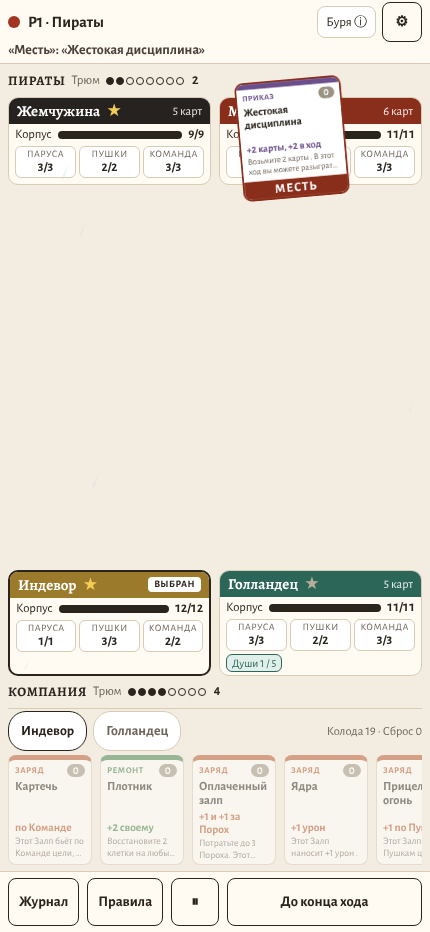
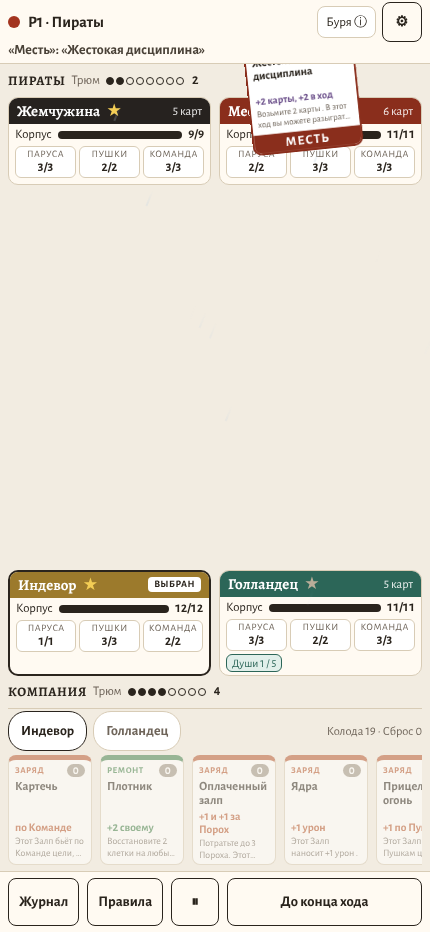
E2E: U3 at 430 — the buttons of all planks of one size, two in sight; screenshots, PROGRESS.md
Claude-Session: https://claude.ai/code/session_01WJErPw4935JGRtmumQ5kGj

Changed region(s): [[0.5442, 0.0622, 0.8465, 0.2178]]

diff --git a/e2e/u3-layout.spec.ts b/e2e/u3-layout.spec.ts
@@ -153,6 +153,20 @@ for (const size of SIZES) {
           }),
         }));
         expect(new Set(rows.tops).size, 'the buttons of «Голландец» in one row').toBe(1);
+        // every button of every plank of one size (two in sight), its text whole
+        const btns = await page.evaluate(() =>
+          Array.from(document.querySelectorAll<HTMLElement>('.planks .plank-buttons .btn')).map((b) => ({ w: b.getBoundingClientRect().width, h: b.getBoundingClientRect().height, whole: b.scrollWidth <= b.clientWidth + 1 })),
+        );
+        expect(btns.length).toBeGreaterThanOrEqual(6);
+        expect(spread(btns.map((b) => b.w)), 'the buttons of one width').toBeLessThanOrEqual(1);
+        expect(spread(btns.map((b) => b.h)), 'the buttons of one height').toBeLessThanOrEqual(1);
+        expect(btns.every((b) => b.whole), 'no text cut').toBe(true);
+        const sight = await page.evaluate(() => {
+          const row = document.querySelector<HTMLElement>('[data-testid="plank-Г"] .plank-buttons')!;
+          const r = row.getBoundingClientRect();
+          return Array.from(row.querySelectorAll('.btn')).filter((b) => { const x = b.getBoundingClientRect(); return x.left >= r.left - 1 && x.right <= r.right + 1; }).length;
+        });
+        expect(sight, 'two buttons of «Голландец» in sight').toBe(2);
         expect(rows.planks.length).toBe(2);
         expect(spread(rows.planks.map((p) => p.h)), 'the planks of a row of one height').toBeLessThanOrEqual(1);
         const rowBottoms = rows.planks.map((p) => p.rowBottom).filter((b): b is number => b !== null);

diff --git a/docs/PROGRESS.md b/docs/PROGRESS.md
@@ -30,8 +30,8 @@
 - **Шаг 5. Шкалы и бейджи (≥ 701 px):** шкалы — компактный блок (subgrid): клетки четырёх шкал в одной колонке, числа одной колонкой сразу за самой длинной шкалой, цифры моноширинные (`tabular-nums`); на 1920 число больше не стоит у правого края. Тело планшета — три колонки: шкалы, свободное поле (печать «Чёрной метки»), бейджи (10,5 rem). Бейджи — ширина по тексту, одна высота (шаг строк шкал), все у одного правого края (правка пользователя перед слиянием: не растягивать); длиннее колонки — «…», полное имя Легенды в `title` (у сыгранной тоже) и по нажатию. Строки шкал больше не растягиваются под колонку бейджей. Телефон: бейджи одной высоты.
 - **Шаг 6. Текст карт в руке** — по целым строкам с «…»: текст занимает остаток высоты, `Hand.tsx` меряет, сколько целых строк влезает, и ставит `line-clamp` и высоту (имя в 1 или 2 строки оставляет разное место). Полный текст — по нажатию, как раньше.
 - **Шаг 7. «Чёрная метка» на планшете** (по правке пользователя перед слиянием — печать, а не водяной знак): маленькая чёткая клякса (MARK_SVG, как в чипе), `opacity 0,9`, повёрнута на −12°. Компьютер — 40 px в свободном поле между числами шкал и бейджами (на узком планшете — не шире поля); телефон — 28 px справа в строке статусов, под шапкой (правый верхний угол тела занят числом Корпуса). Ничего не закрывает. Ждёт скрытой вместе с чипом, пока летит клякса клипа; `statusFx` ставит её в момент посадки (scale 1,6 → 1 и opacity, «game:» в `misc.ts`); уходит со статусом (у потопленного нет). Без слоя (reduced-motion, «мгновенно») — сразу по состоянию, без анимации. Чип «Чёрная метка +2» и ядра «в метку» — как были. Тест — `tests/fx-dom.test.ts` (3 новых).
-- **Шаг 7б. Кнопки планшета на телефоне** (правка пользователя перед слиянием): одна строка с прокруткой пальцем, без полосы; пока справа есть что листать — затухание и стрелка «›» у правого края (нажатие листает строку; долистали — стрелка и затухание пропадают; `useMoreRight` в `Table.tsx`, порог 8 px — отступ строки). Прокрутка не листает стол (`overscroll-behavior-x: contain`), кнопки ≥ 44 px и не сжимаются по тексту, короткий ряд по-прежнему на всю ширину. Планшеты ряда одной высоты (по решению пользователя — как было), строка кнопок прижата к низу планшета: кнопки обоих кораблей на одной линии. Компьютер не менялся (стрелки там нет). `e2e/phone.spec.ts` (P7) переписан под новое по решению пользователя: кнопки ≥ 44 px, текст целый, все в одной строке; стрелка видна, если строка не влезает; после нажатий на стрелку «Душа → Корп» целиком в планшете и окне и работает (Души меняются); каждая кнопка после прокрутки к ней — целиком в планшете и окне; страница вбок не прокручивается. Снимок `p7/phone-4-dutchman.png` переснят.
-- **Шаг 8. e2e** `e2e/u3-layout.spec.ts` (только Chromium, 9 тестов, допуски ±3 px): против ботов на трёх размерах — в каждом кадре сводка не ближе 8 px к баннеру и не на «Последнее: …», «Ваш ход» по центру зазора; группа середины, панель Залпа и «Ход окончен» по центру зазора; ярлыки шапок по центру с именем, без transform, имя целое; бейджи одной высоты у общего правого края, числа шкал в одной колонке; на 430 кнопки «Голландца» в одной строке, нижние планшеты одной высоты (±1 px), низ строк кнопок на одной линии; «Чёрная метка» — скрыта в полёте, потом видна, opacity 0,85–0,95, повёрнута, ≈ 40 px между числами и бейджами (компьютер) / ≈ 28 px справа в строке статусов (телефон), не пересекает числа, клетки, полоску, подписи, бейджи, кнопки, чипы и шапку; окно Реакций — только снимок. Снимки — `docs/screenshots/u3/after/` (те же имена, что «до», плюс `summary-*`).
+- **Шаг 7б. Кнопки планшета на телефоне** (правка пользователя перед слиянием): одна строка с прокруткой пальцем, без полосы; пока справа есть что листать — затухание и стрелка «›» у правого края (нажатие листает строку; долистали — стрелка и затухание пропадают; `useMoreRight` в `Table.tsx`, порог 8 px — отступ строки). Прокрутка не листает стол (`overscroll-behavior-x: contain`). Все кнопки всех планшетов одного размера (решение пользователя): ширина — половина видимой строки (две в поле зрения, как у «Индевора»), высота 44 px, текст целый; у «Голландца» видны две, остальные — прокруткой (с прилипанием к кнопке) и стрелкой «›» (листает на ширину строки). Затухание и стрелка узкие, у самого края — текст второй кнопки не закрывают. Планшеты ряда одной высоты (по решению пользователя — как было), строка кнопок прижата к низу планшета: кнопки обоих кораблей на одной линии. Компьютер не менялся (стрелки там нет). `e2e/phone.spec.ts` (P7) переписан под новое по решению пользователя: кнопки ≥ 44 px, текст целый, все в одной строке; стрелка видна, если строка не влезает; после нажатий на стрелку «Душа → Корп» целиком в планшете и окне и работает (Души меняются); каждая кнопка после прокрутки к ней — целиком в планшете и окне; страница вбок не прокручивается. Снимок `p7/phone-4-dutchman.png` переснят.
+- **Шаг 8. e2e** `e2e/u3-layout.spec.ts` (только Chromium, 9 тестов, допуски ±3 px): против ботов на трёх размерах — в каждом кадре сводка не ближе 8 px к баннеру и не на «Последнее: …», «Ваш ход» по центру зазора; группа середины, панель Залпа и «Ход окончен» по центру зазора; ярлыки шапок по центру с именем, без transform, имя целое; бейджи одной высоты у общего правого края, числа шкал в одной колонке; на 430 кнопки «Голландца» в одной строке, видны две, все кнопки всех планшетов одной ширины и высоты (±1 px), текст целый, нижние планшеты одной высоты (±1 px), низ строк кнопок на одной линии; «Чёрная метка» — скрыта в полёте, потом видна, opacity 0,85–0,95, повёрнута, ≈ 40 px между числами и бейджами (компьютер) / ≈ 28 px справа в строке статусов (телефон), не пересекает числа, клетки, полоску, подписи, бейджи, кнопки, чипы и шапку; окно Реакций — только снимок. Снимки — `docs/screenshots/u3/after/` (те же имена, что «до», плюс `summary-*`).
 - **Проверки:** `typecheck` — без ошибок; `npm test` — 617 в 48 файлах; `build` — собран, в `dist/` нет `fxScene`; `e2e/u3-layout.spec.ts` локально — 9 из 9 (своим конфигом без игрового сервера). sim, `build:server` и полный e2e по условию задачи не запускались — их проверяет CI.
 
 ### Не сделано (U3)
